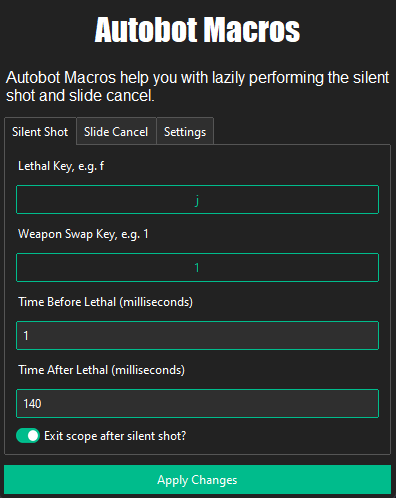
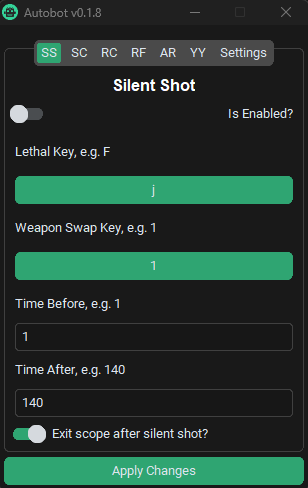
Updates to remove paypal buying system. Will rather use disccord.

diff --git a/src/App.jsx b/src/App.jsx
@@ -45,10 +45,8 @@ function App() {
                           class="text-gray-200 hover:text-emerald-400 transition-all duration-300 ease-in-out">Home</Link>
                     {authState.token && (
                         <>
-                            {userState.paid && <Link href="/download"
-                                                     class="text-gray-200 hover:text-emerald-400 transition-all duration-300 ease-in-out">Download</Link>}
-                            {!userState.paid && <Link href="/purchase"
-                                                      class="text-gray-200 hover:text-emerald-400 transition-all duration-300 ease-in-out">Purchase</Link>}
+                            <Link href="/download"
+                                  class="text-gray-200 hover:text-emerald-400 transition-all duration-300 ease-in-out">Download</Link>
                             <Link href="/profile"
                                   class="text-gray-200 hover:text-emerald-400 transition-all duration-300 ease-in-out">{userState.username}</Link>
                         </>

diff --git a/src/pages/home/home.jsx b/src/pages/home/home.jsx
@@ -15,6 +15,17 @@ const Home = () => {
                 </div>
                 <img src={autobotWindow}/>
             </div>
+            <div class="flex space-x-10">
+                <div class="flex flex-col space-y-10">
+                    <div class="text-emerald-400 text-xl font-bold">How To Gain Access To Autobot?</div>
+                    <div class="text-lg text-neutral-200">In order to be able to use Autobot you will need to pay for
+                        it. You can pay for it after creating a ticket on the <a class="text-emerald-400">Autobot
+                            Discord</a> server. The pricing will be listed there. You can also check out our reseller
+                        partner, <a class="text-emerald-400">Cyclone Services</a>.
+                    </div>
+                </div>
+                <img src={autobotWindow}/>
+            </div>
             <div class="flex flex-col space-y-10">
                 <div class="text-emerald-400 text-xl font-bold">Features</div>
                 <div class="grid gap-8 grid-cols-3">
